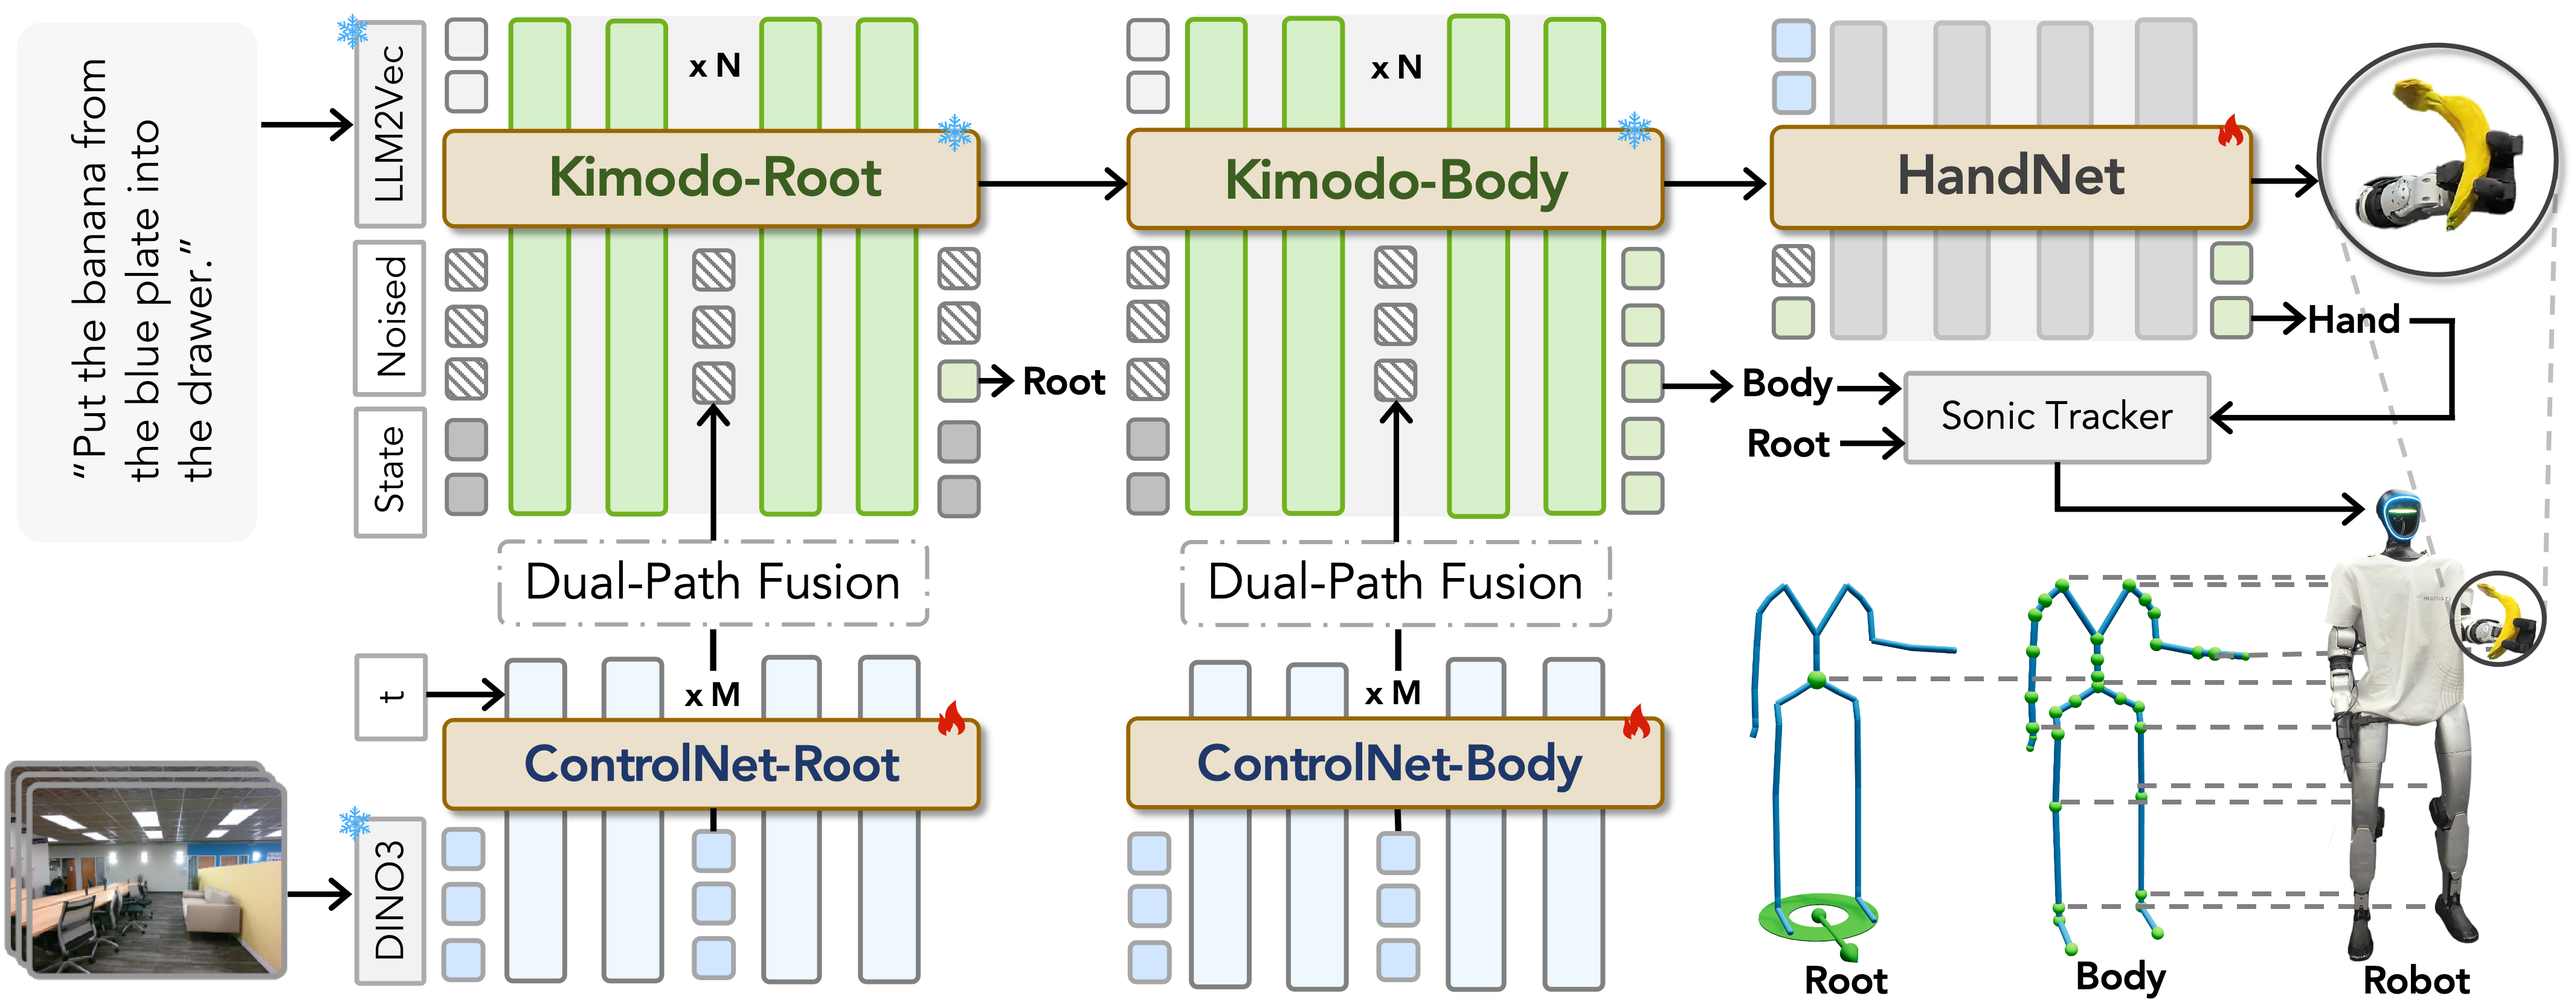
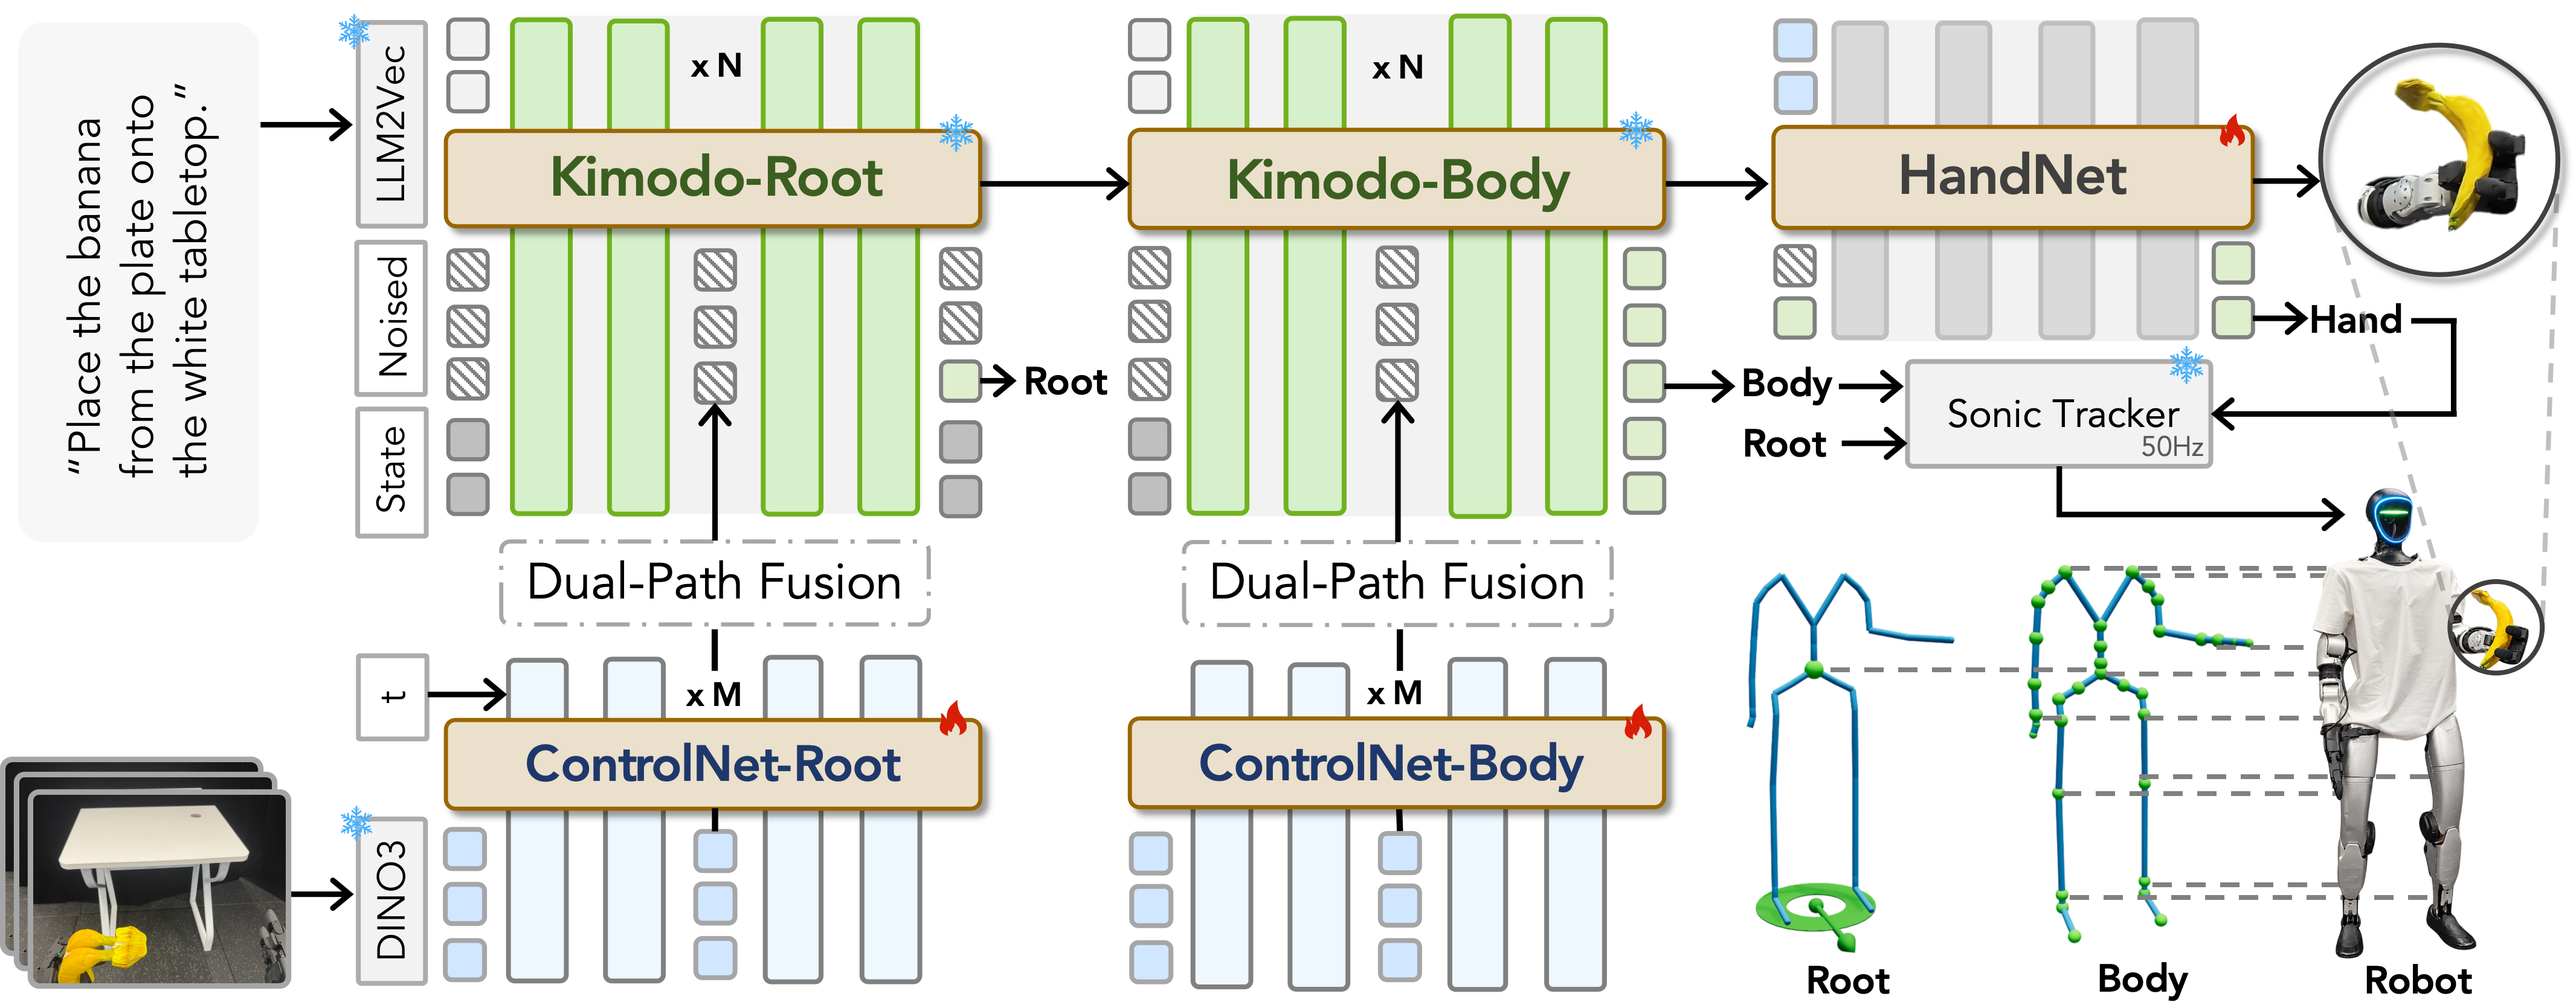
Update method figure

diff --git a/index.html b/index.html
@@ -65,7 +65,7 @@
 </section>
 <section id="method" class="paper-section" aria-labelledby="method-title">
 <h2 id="method-title">A structured motion prior, grounded in the scene</h2>
-<figure class="method-diagram overview-diagram"><div class="overview-diagram-image"><img data-src="figure/method.png" alt="Kimodo-Policy architecture: frozen root and body denoisers, visual ControlNet branches with Dual-Path Fusion, and HandNet for coordinated hand control." loading="lazy" decoding="async"></div></figure>
+<figure class="method-diagram overview-diagram"><div class="overview-diagram-image"><img data-src="figure/method.png?v=6cbe13e2" width="4264" height="1669" alt="Kimodo-Policy architecture: frozen root and body denoisers, visual ControlNet branches with Dual-Path Fusion, and HandNet for coordinated hand control." loading="lazy" decoding="async"></div></figure>
 <p><strong class="project-name"><span class="kimodo">Kimodo</span><span class="policy">-Policy</span></strong> preserves the pretrained Kimodo root and body denoisers and learns visual conditioning through ControlNet branches. LLM2Vec encodes the instruction, frozen DINOv3 extracts image features, and a separate HandNet predicts synchronized left- and right-hand controls.</p>
 <h3>Root → Body → Hand</h3>
 <p>The root stage predicts translation and heading. Its trajectory conditions articulated body motion; future body features, visual observations, and the current hand state then guide HandNet. Each stage has a dedicated prediction objective, while explicit forward conditioning preserves whole-body coordination.</p>
